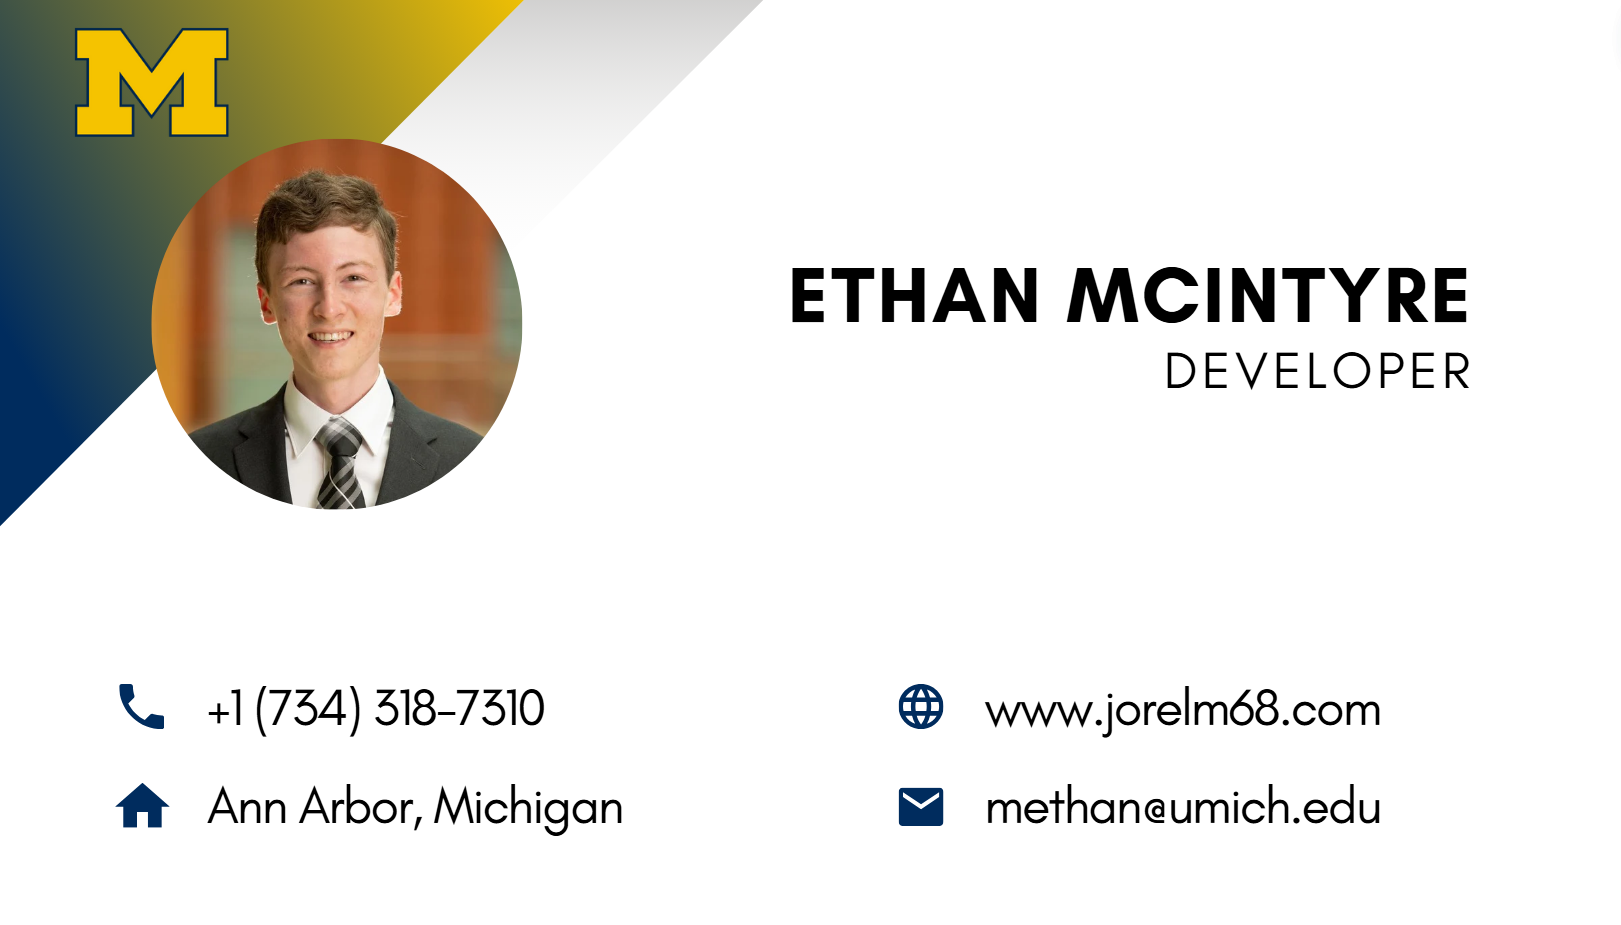
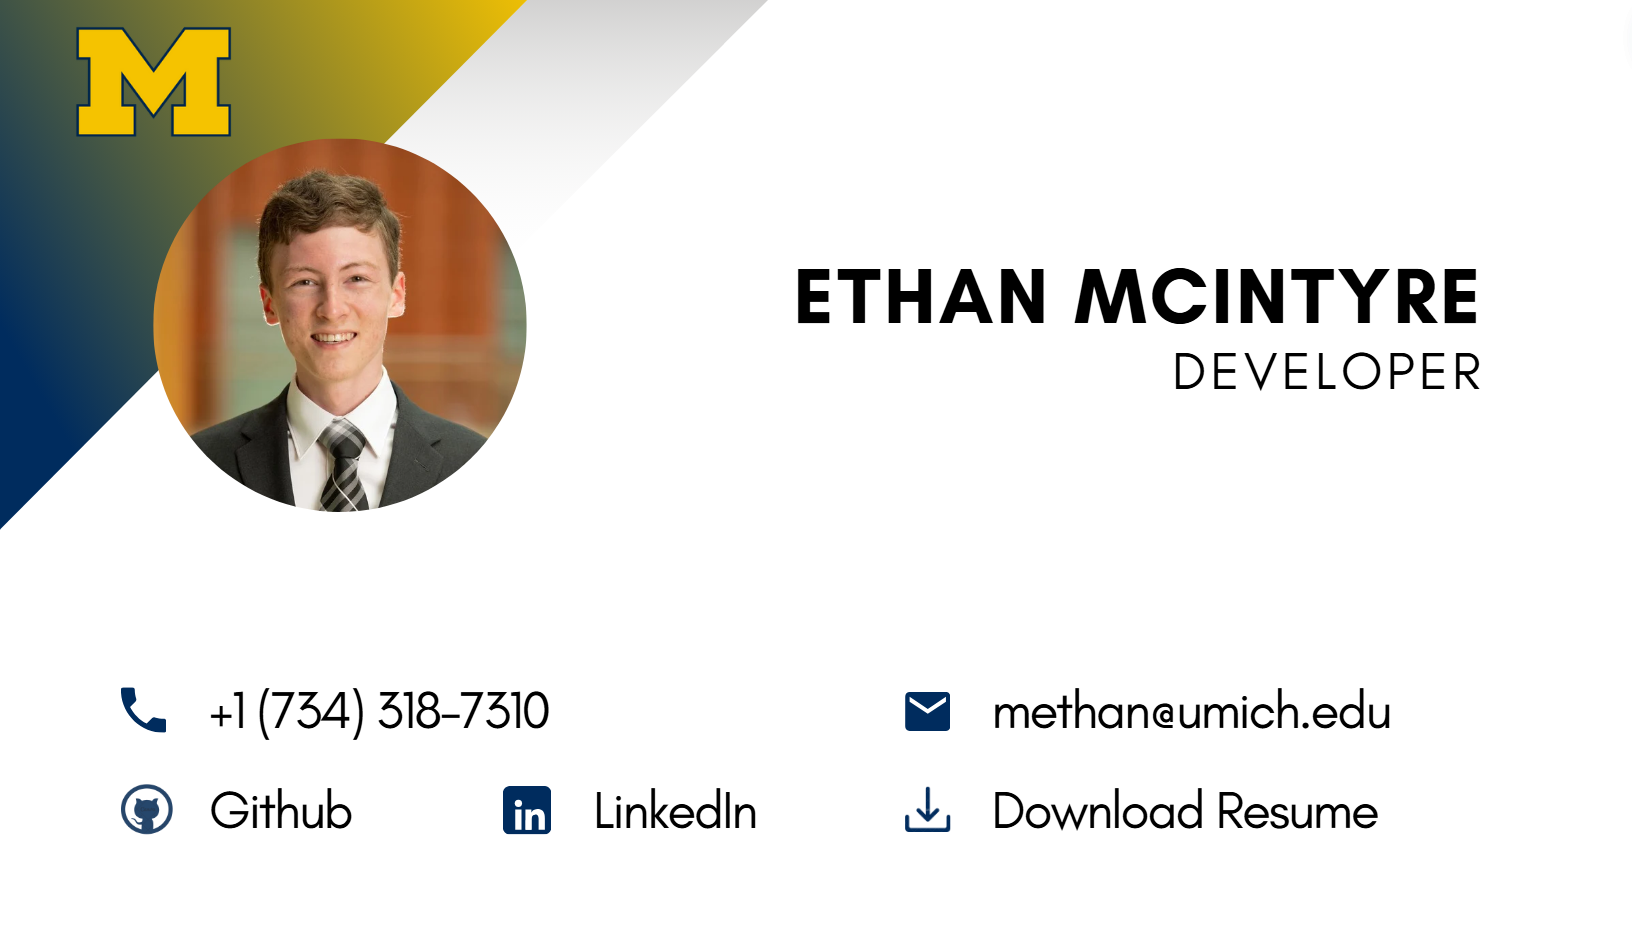
Made contact information floating above screens

diff --git a/src/views/components/BusinessCardComponent.tsx b/src/views/components/BusinessCardComponent.tsx
@@ -1,0 +1,113 @@
+import { Link } from "react-router-dom";
+import photos from "../../data/constants/photos";
+import PhotoComponent from "./PhotoComponent";
+import View from "./View";
+import { useState, useEffect } from "react";
+import files from "../../data/constants/files";
+import { useAppSelector } from "../../data/redux/hooks";
+import { motion } from "framer-motion";
+
+export default function BusinessCardComponent() {
+    const { screen } = useAppSelector(state => state.global);
+    const [width, setWidth] = useState(window.innerWidth);
+
+    useEffect(() => {
+        const handleResize = () => setWidth(window.innerWidth);
+        window.addEventListener('resize', handleResize);
+        return () => window.removeEventListener('resize', handleResize);
+    }, []);
+
+    const handleDownload = () => {
+        // URL of the PDF file
+        const resumeUrl = files.resume; // Make sure this is a URL
+
+        // Create a temporary link element
+        const link = document.createElement('a');
+        link.href = resumeUrl;
+        link.download = 'Ethan_McIntyre.pdf';
+
+        // Append the link to the document and trigger a click to start the download
+        document.body.appendChild(link);
+        link.click();
+
+        // Clean up
+        document.body.removeChild(link);
+    };
+
+    return (
+        <motion.div
+            initial={{ opacity: 0 }}
+            animate={{ opacity: screen === 'ContactScreen' ? 1 : 0 }}
+            transition={{ duration: screen === 'ContactScreen' ? 1 : 0.35 }}
+            style={{
+                width: '100%',
+                maxWidth: 885,
+                height: 'auto',
+                transition: 'background-color 0.3s ease',
+                position: 'absolute', // Important to set the container to relative
+                top: 48,
+                left: 0,
+            }}
+        >
+            <PhotoComponent
+                photo={photos.businessCard}
+                style={{
+                    width: '100%',
+                    height: 'auto',
+                    borderBottomRightRadius: width < 885 ? 0 : 50,
+                }}
+            />
+
+            <View
+                style={{
+                    position: 'absolute',
+                    top: 0,
+                    left: 0,
+                    width: '100%', // Ensure it covers the full width of the image
+                    height: '100%', // Ensure it covers the full height of the image
+                }}
+            >
+                <Link
+                    to="https://www.github.com/jorelm68"
+                    target="_blank"
+                    rel="noopener noreferrer"
+                    style={{
+                        position: 'absolute',
+                        width: '16%',
+                        height: '8%',
+                        top: '82.75%',
+                        left: '6.75%',
+                        cursor: 'pointer',
+                    }}
+                />
+
+                <Link
+                    to="https://www.linkedin.com/in/ethan-mcintyre68"
+                    target="_blank"
+                    rel="noopener noreferrer"
+                    style={{
+                        position: 'absolute',
+                        width: '17.5%',
+                        height: '8%',
+                        top: '82.75%',
+                        left: '30%',
+                        cursor: 'pointer',
+                    }}
+                />
+
+                <View
+                    onClick={handleDownload}
+                    style={{
+                        position: 'absolute', // Position relative to the parent
+                        right: '14.75%', // Use left instead of marginLeft
+                        top: '82.75%', // Use top instead of marginTop
+                        width: '30.75%',
+                        height: '8%',
+                        backgroundColor: 'rgba(0, 0, 0, 0.5)', // Transparent background
+                        cursor: 'pointer', // Changes the cursor to a pointer when hovering
+                    }}
+                />
+            </View>
+        </motion.div>
+    )
+}

diff --git a/src/views/screens/ContactScreen.tsx b/src/views/screens/ContactScreen.tsx
@@ -1,39 +1,24 @@
-import { useEffect } from "react";
+import { useEffect, useState } from "react";
 import { useDispatch } from "react-redux";
 import { setScreen } from "../../data/redux/global.reducer";
 import Page from "../components/Page";
 import PhotoComponent from "../components/PhotoComponent";
 import photos from "../../data/constants/photos";
-import Text from "../components/Text";
 import View from "../components/View";
 import files from "../../data/constants/files";
+import { Link } from "react-router-dom";
+import BusinessCardComponent from "../components/BusinessCardComponent";
 
 export default function ContactScreen() {
     const dispatch = useDispatch();
     useEffect(() => {
         dispatch(setScreen('ContactScreen'));
-    }, [dispatch])
+    }, [dispatch]);
 
-    const handleDownload = () => {
-        // URL of the PDF file
-        const resumeUrl = files.resume; // Make sure this is a URL
-
-        // Create a temporary link element
-        const link = document.createElement('a');
-        link.href = resumeUrl;
-        link.download = 'Ethan_McIntyre.pdf';
-
-        // Append the link to the document and trigger a click to start the download
-        document.body.appendChild(link);
-        link.click();
-
-        // Clean up
-        document.body.removeChild(link);
-    };
+    
 
     return (
         <Page style={{
-            backgroundColor: 'white',
             alignItems: 'flex-start',
             justifyContent: 'flex-start',
         }}>
@@ -42,18 +27,7 @@ export default function ContactScreen() {
                 height: '48px',
                 backgroundColor: 'black',
             }}>
-
             </View>
-
-            <PhotoComponent 
-                photo={photos.businessCard}
-                style={{
-                    width: '100%',
-                    maxWidth: 1000,
-                    height: 'auto',
-                    marginBottom: 20,
-                }}
-            />
         </Page>
-    )
+    );
 }

diff --git a/src/views/components/Me2Component.tsx b/src/views/components/Me2Component.tsx
@@ -1,0 +1,46 @@
+import { useState, useEffect } from "react";
+import photos from "../../data/constants/photos";
+import PhotoComponent from "./PhotoComponent";
+import { motion } from "framer-motion";
+import View from "./View";
+import { useAppSelector } from "../../data/redux/hooks";
+
+export default function Me2Component() {
+    const { screen } = useAppSelector(state => state.global);
+
+    const aspectRatio = 2048 / 1152; // Example aspect ratio. Replace with your image's actual aspect ratio.
+    const imageHeight = '75vh';
+
+    return (
+        <View style={{
+            position: 'absolute',
+            top: 0,
+            left: 0,
+            width: '100%',
+            height: '100%',
+            paddingTop: 48,
+            zIndex: 80,
+        }}>
+            <motion.div
+                initial={{ opacity: 0 }}
+                animate={{ opacity: screen === 'ContactScreen' ? 1 : 0 }}
+                transition={{ duration: screen === 'ContactScreen' ? 1 : 0.35 }}
+                style={{
+                    position: 'absolute',
+                    bottom: 0,
+                    right: 0, // Aligned to the right side of the screen
+                    height: imageHeight,
+                    display: 'flex',
+                    alignSelf: 'center',
+                    justifyContent: 'center',
+                    alignItems: 'center',
+                    overflow: 'hidden',
+                    minWidth: `calc(75vh * ${aspectRatio})`, // Min width relative to height
+                    maxWidth: '100%',
+                }}
+            >
+                <PhotoComponent photo={photos.me2} />
+            </motion.div>
+        </View>
+    );
+}

diff --git a/src/views/components/Me1Component.tsx b/src/views/components/Me1Component.tsx
@@ -5,8 +5,8 @@ import { motion } from "framer-motion";
 import View from "./View";
 import { useAppSelector } from "../../data/redux/hooks";
 
-export default function MeComponent() {
-    const { screen = 'LandingScreen' } = useAppSelector(state => state.global);
+export default function Me1Component() {
+    const { screen } = useAppSelector(state => state.global);
 
     const aspectRatio = 1248 / 1102; // Example aspect ratio. Replace with your image's actual aspect ratio.
     const imageHeight = '75vh';
@@ -35,12 +35,11 @@ export default function MeComponent() {
                     justifyContent: 'center',
                     alignItems: 'center',
                     overflow: 'hidden',
-                    pointerEvents: 'none', // Ignore mouse events for this component
                     minWidth: `calc(75vh * ${aspectRatio})`, // Min width relative to height
                     maxWidth: '100%',
                 }}
             >
-                <PhotoComponent photo={photos.me} />
+                <PhotoComponent photo={photos.me1} />
             </motion.div>
         </View>
     );

diff --git a/src/views/components/PhotoComponent.tsx b/src/views/components/PhotoComponent.tsx
@@ -1,15 +1,14 @@
-import { useState, useEffect } from "react";
+import { useState, useEffect, HTMLAttributes } from "react";
 import photos from "../../data/constants/photos";
 import cache from "../../data/server/cache";
 import View from "./View";
 
-interface PhotoComponentProps {
+interface PhotoComponentProps extends HTMLAttributes<HTMLImageElement> {
     photo: string | File;
     resolution?: number;
-    style?: object;
 }
 
-export default function PhotoComponent({ photo, resolution = 1080, style }: PhotoComponentProps) {
+export default function PhotoComponent({ photo, resolution = 1080, ...rest }: PhotoComponentProps) {
     const [source, setSource] = useState(photos.defaultImage);
 
     useEffect(() => {
@@ -47,10 +46,10 @@ export default function PhotoComponent({ photo, resolution = 1080, style }: Phot
     }
 
     return (
-        <img alt="" src={source} style={{
+        <img alt="" {...rest} src={source} style={{
             width: '100%',
             height: '100%',
-            ...style,
+            ...rest.style,
         }} />
     );
 }

diff --git a/src/App.tsx b/src/App.tsx
@@ -14,8 +14,10 @@ import PostScreen from './views/screens/PostScreen';
 import EditPostScreen from './views/screens/EditPostScreen';
 import './App.css';
 import Text from './views/components/Text';
-import MeComponent from './views/components/MeComponent';
+import Me1Component from './views/components/Me1Component';
 import MyNameComponent from './views/components/MyNameComponent';
+import Me2Component from './views/components/Me2Component';
+import BusinessCardComponent from './views/components/BusinessCardComponent';
 
 function App() {
   useEffect(() => {
@@ -30,7 +32,9 @@ function App() {
       <Router>
         <BackdropComponent />
         <MyNameComponent />
-        <MeComponent />
+        <Me1Component />
+        <Me2Component />
+        <BusinessCardComponent />
         <NavbarComponent />
 
         <Routes>

diff --git a/src/data/constants/photos.ts b/src/data/constants/photos.ts
@@ -7,9 +7,9 @@ const photos = {
     github: require('../../assets/photos/github.png'),
     leetcode: require('../../assets/photos/leetcode.png'),
     pdf: require('../../assets/photos/pdf.png'),
-    me: require('../../assets/photos/me.png'),
+    me1: require('../../assets/photos/me1.png'),
+    me2: require('../../assets/photos/me2.png'),
     businessCard: require('../../assets/photos/businessCard.png'),
-    businessCardTransparent: require('../../assets/photos/businessCardTransparent.png'),
     headshot: require('../../assets/photos/headshot.jpg'),
     generic1: require('../../assets/photos/generic1.jpg'),
     generic2: require('../../assets/photos/generic2.jpg'),

diff --git a/src/views/screens/LandingScreen.tsx b/src/views/screens/LandingScreen.tsx
@@ -3,7 +3,7 @@ import { useDispatch } from "react-redux";
 import { setScreen } from "../../data/redux/global.reducer";
 import Page from "../components/Page";
 import View from "../components/View";
-import MeComponent from "../components/MeComponent";
+import Me1Component from "../components/Me1Component";
 import Text from "../components/Text";
 import api from "../../data/server/api";
 import { Res } from "../../data/constants/types";

diff --git a/src/data/constants/constants.ts b/src/data/constants/constants.ts
@@ -1,5 +1,5 @@
 const constants = {
-    NO_BACKDROP: ['ContactScreen', 'DevScreen', 'MyWorkScreen'],
+    NO_BACKDROP: ['DevScreen', 'MyWorkScreen'],
 }
 
 export default constants;
